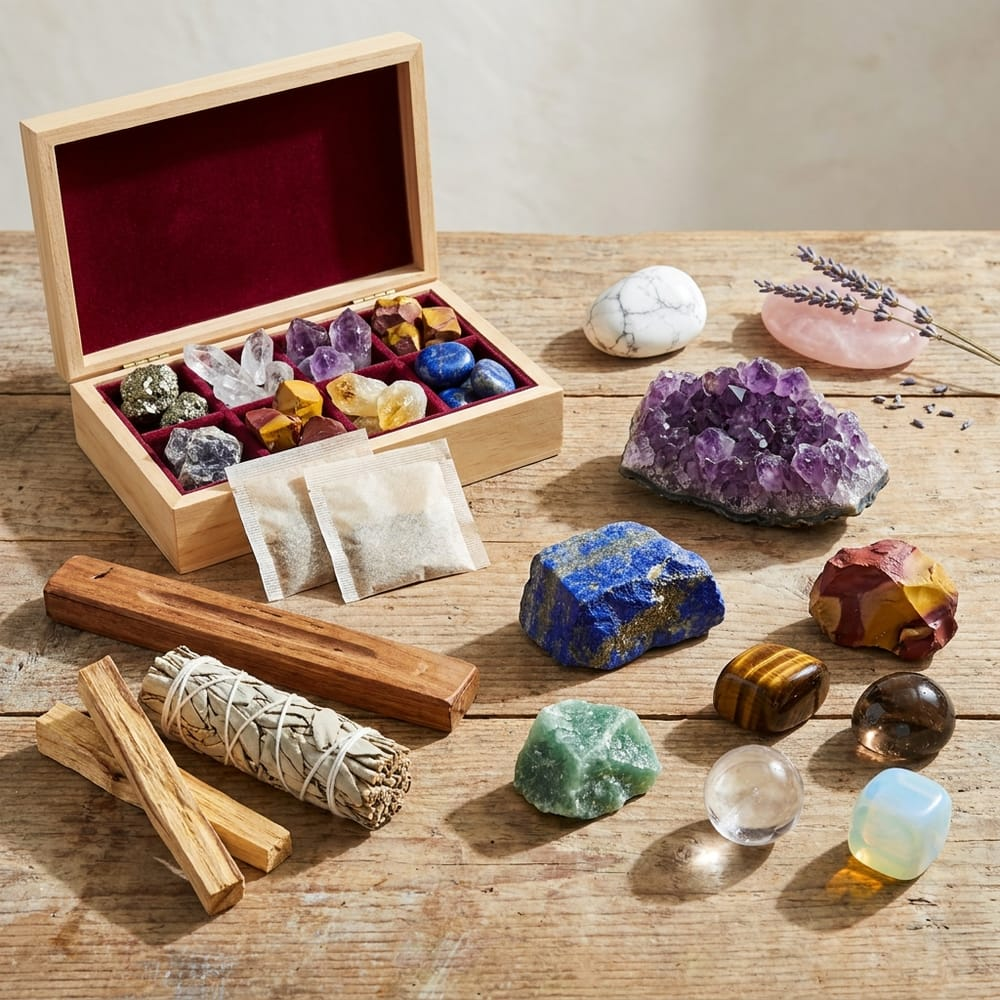
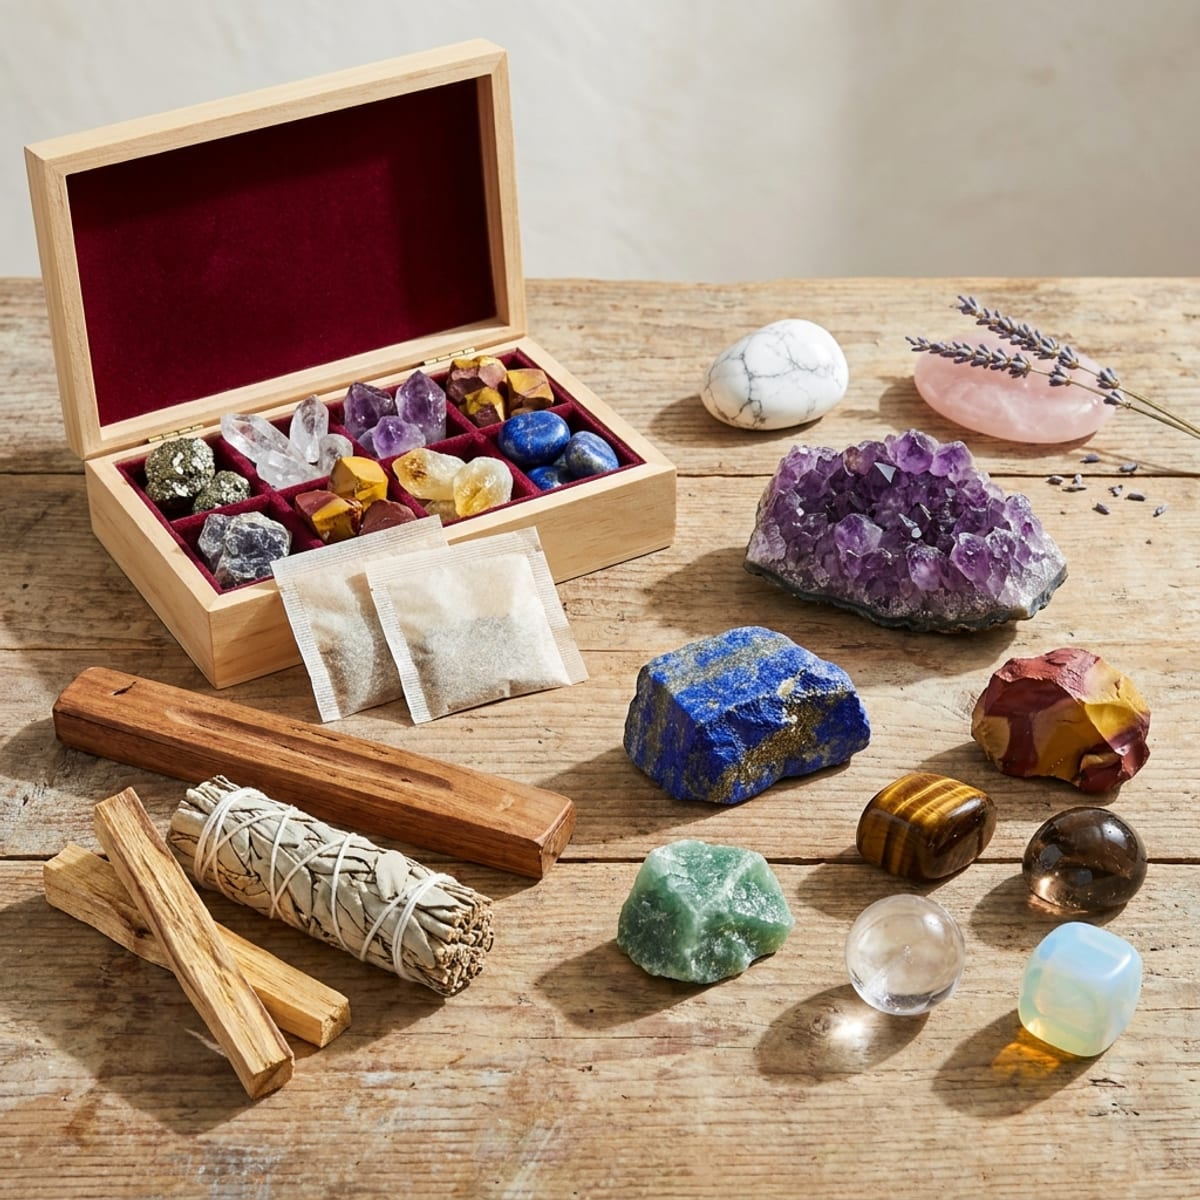
Add 7 new crystals to scroll deco, enlarge spiritual-objects photo
New cutouts (aquamarine, ruby, turquoise, etc.) added to the floating
crystal drift, now 13 total spread evenly down the page. The hero
photo below the description text is now full-width (matching the
paragraph/button width) while staying square, just scaled up instead
of stretched.

diff --git a/components/CrystalDrift.tsx b/components/CrystalDrift.tsx
@@ -2,12 +2,19 @@ import Image from "next/image";
 import { asset } from "@/lib/assets";
 
 const crystals = [
-  { src: asset("/images/crystals/amethyst.png"), side: "left" as const, top: "6%", size: 90, rotateStart: -8, rotateEnd: 340 },
-  { src: asset("/images/crystals/labradorit.png"), side: "right" as const, top: "12%", size: 100, rotateStart: 10, rotateEnd: -330 },
-  { src: asset("/images/crystals/kristallspitze.png"), side: "left" as const, top: "30%", size: 85, rotateStart: -15, rotateEnd: 350 },
+  { src: asset("/images/crystals/amethyst.png"), side: "left" as const, top: "4%", size: 90, rotateStart: -8, rotateEnd: 340 },
+  { src: asset("/images/crystals/labradorit.png"), side: "right" as const, top: "10%", size: 100, rotateStart: 10, rotateEnd: -330 },
+  { src: asset("/images/crystals/rubin.png"), side: "left" as const, top: "18%", size: 85, rotateStart: -12, rotateEnd: 348 },
+  { src: asset("/images/crystals/kristallspitze.png"), side: "right" as const, top: "26%", size: 85, rotateStart: -15, rotateEnd: 350 },
+  { src: asset("/images/crystals/tuerkiser-kristall.png"), side: "left" as const, top: "34%", size: 95, rotateStart: 9, rotateEnd: -338 },
   { src: asset("/images/crystals/zitrin.png"), side: "right" as const, top: "42%", size: 80, rotateStart: 12, rotateEnd: -345 },
-  { src: asset("/images/crystals/karneol.png"), side: "left" as const, top: "58%", size: 90, rotateStart: -10, rotateEnd: 355 },
-  { src: asset("/images/crystals/zoisit.png"), side: "right" as const, top: "70%", size: 95, rotateStart: 8, rotateEnd: -350 },
+  { src: asset("/images/crystals/aquamarin.png"), side: "left" as const, top: "50%", size: 90, rotateStart: -10, rotateEnd: 342 },
+  { src: asset("/images/crystals/karneol.png"), side: "right" as const, top: "58%", size: 90, rotateStart: -10, rotateEnd: 355 },
+  { src: asset("/images/crystals/quadratischer-stein.png"), side: "left" as const, top: "66%", size: 85, rotateStart: 14, rotateEnd: -352 },
+  { src: asset("/images/crystals/roter-stein.png"), side: "right" as const, top: "74%", size: 90, rotateStart: -9, rotateEnd: 346 },
+  { src: asset("/images/crystals/zoisit.png"), side: "left" as const, top: "82%", size: 95, rotateStart: 8, rotateEnd: -350 },
+  { src: asset("/images/crystals/rare-crystal.png"), side: "right" as const, top: "88%", size: 80, rotateStart: -11, rotateEnd: 341 },
+  { src: asset("/images/crystals/kristall-unbekannt.png"), side: "left" as const, top: "94%", size: 85, rotateStart: 10, rotateEnd: -344 },
 ];
 
 export function CrystalDrift() {

diff --git a/components/Hero.tsx b/components/Hero.tsx
@@ -53,12 +53,12 @@ export function Hero() {
               automatisch jeden Monat an deiner Tür.
             </p>
 
-            <div className="relative w-40 h-40 md:w-48 md:h-48 rounded-3xl overflow-hidden shadow-xl shadow-ink/15 mb-9 border border-line">
+            <div className="relative w-full max-w-xl aspect-square rounded-3xl overflow-hidden shadow-xl shadow-ink/15 mb-9 border border-line">
               <Image
                 src={asset("/images/spiritual-objects.jpeg")}
                 alt="Spirituelle Objekte und Kristalle"
                 fill
-                sizes="192px"
+                sizes="(min-width: 768px) 36rem, 90vw"
                 className="object-cover"
               />
             </div>